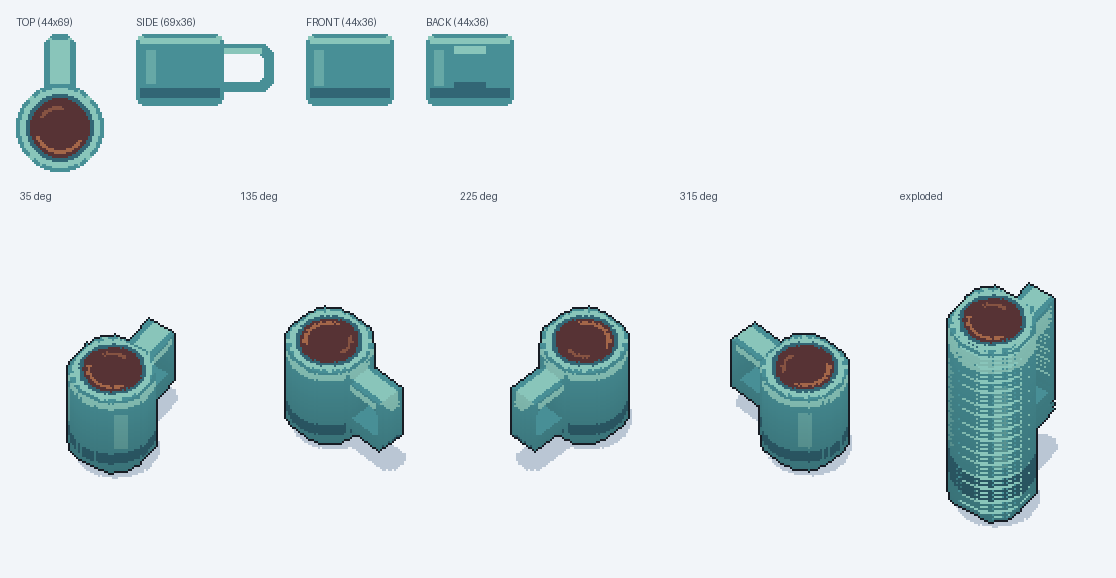
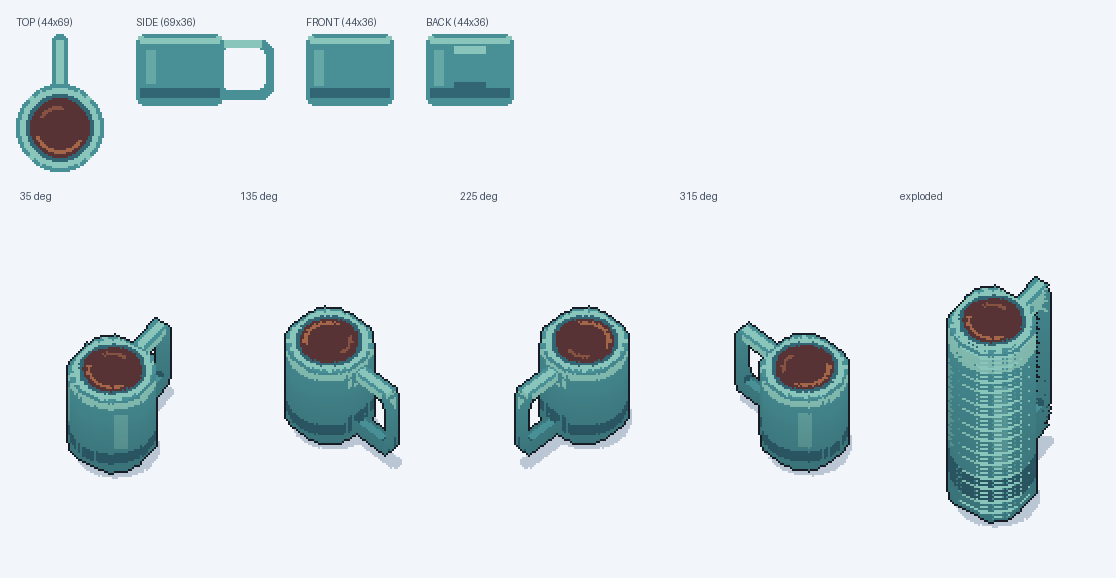
Verify race logic and refine the carved mug handle

diff --git a/src/game/collision.test.ts b/src/game/collision.test.ts
@@ -1,0 +1,62 @@
+import { describe, expect, it } from 'vitest'
+import { boxContact, circleContact, overlaps, resolveContact, tableContacts } from './collision'
+
+describe('arcade contacts', () => {
+  it('uses radial circle normals, including at coincident centres', () => {
+    const obstacle = { x: 0, y: 0, radius: 3 }
+    expect(circleContact({ x: 3, y: 4, radius: 3 }, obstacle)).toEqual({
+      depth: 1, normal: { x: 0.6, y: 0.8 },
+    })
+    expect(circleContact({ x: 10, y: 0, radius: 3 }, obstacle)).toBeUndefined()
+    expect(circleContact({ x: 0, y: 0, radius: 3 }, obstacle)).toEqual({
+      depth: 6, normal: { x: 1, y: 0 },
+    })
+  })
+
+  it('detects the thin face of a rotated box and pushes an interior circle out', () => {
+    const ruler = { x: 10, y: 20, halfWidth: 2, halfLength: 10, angle: Math.PI / 2 }
+    const edge = boxContact({ x: 14, y: 23, radius: 2 }, ruler)
+    expect(edge?.depth).toBeCloseTo(1)
+    expect(edge?.normal.x).toBeCloseTo(0)
+    expect(edge?.normal.y).toBeCloseTo(1)
+    const inside = boxContact({ x: 14, y: 21, radius: 2 }, ruler)
+    expect(inside?.depth).toBeCloseTo(3)
+    expect(boxContact({ x: 24, y: 21, radius: 2 }, ruler)).toBeUndefined()
+  })
+
+  it('uses the diagonal normal at a box corner', () => {
+    const contact = boxContact({ x: 3, y: 3, radius: 2 }, {
+      x: 0, y: 0, halfWidth: 2, halfLength: 2, angle: 0,
+    })
+    expect(contact?.depth).toBeCloseTo(2 - Math.SQRT2)
+    expect(contact?.normal.x).toBeCloseTo(Math.SQRT1_2)
+    expect(contact?.normal.y).toBeCloseTo(Math.SQRT1_2)
+  })
+
+  it('bounces normal velocity while preserving tangential motion and avoids a second impulse', () => {
+    const position = { x: 2, y: 0 }
+    const velocity = { x: -10, y: 6 }
+    const contact = { normal: { x: 1, y: 0 }, depth: 2 }
+    expect(resolveContact(position, velocity, contact, 0.7)).toBe(10)
+    expect(position.x).toBeCloseTo(4.03)
+    expect(velocity).toEqual({ x: 7, y: 6 })
+    expect(resolveContact(position, velocity, contact, 0.7)).toBe(0)
+    expect(velocity).toEqual({ x: 7, y: 6 })
+  })
+
+  it('keeps clearance between rotated track props', () => {
+    const horizontal = { x: 0, y: 0, halfWidth: 10, halfLength: 50, angle: Math.PI / 2 }
+    const vertical = { x: 63, y: 0, halfWidth: 10, halfLength: 50, angle: 0 }
+    expect(overlaps(horizontal, vertical, 0)).toBe(false)
+    expect(overlaps(horizontal, vertical, 4)).toBe(true)
+    expect(overlaps(horizontal, { x: -30, y: 30, radius: 11 }, 4)).toBe(false)
+    expect(overlaps(horizontal, { x: 30, y: 23, radius: 11 }, 4)).toBe(true)
+  })
+
+  it('produces separate wall contacts at a tabletop corner', () => {
+    expect(tableContacts({ x: 98, y: 1, radius: 5 }, 100, 60)).toEqual([
+      { normal: { x: -1, y: 0 }, depth: 3 },
+      { normal: { x: 0, y: 1 }, depth: 4 },
+    ])
+  })
+})

diff --git a/src/game/race.test.ts b/src/game/race.test.ts
@@ -1,0 +1,75 @@
+import { describe, expect, it } from 'vitest'
+import { BEST_LAP_KEY, Race, gateCrossing, readBestLap } from './race'
+import type { Gate } from './race'
+
+const line = (x: number): Gate => ({ x, y: 0, forward: { x: 1, y: 0 }, halfWidth: 15 })
+const gates = [line(0), line(100), line(200), line(300)]
+
+function cross(race: Race, x: number, reverse = false, y = 0) {
+  const direction = reverse ? -1 : 1
+  race.step({ x: x - direction, y }, { x: x + direction, y }, 500)
+}
+
+function completeLap(race: Race) {
+  for (const x of [100, 200, 300, 0]) cross(race, x)
+}
+
+describe('race checkpoints', () => {
+  it('requires every gate in order and rejects crossings outside the gate width', () => {
+    const race = new Race(gates, null)
+    cross(race, 200)
+    cross(race, 100, false, 19)
+    expect(race.checkpoint).toBe(0)
+    cross(race, 100)
+    cross(race, 300)
+    expect(race.checkpoint).toBe(1)
+    cross(race, 0)
+    expect(race.checkpoint).toBe(0)
+    expect(race.lap).toBe(1)
+    expect(race.lapTimesMs).toEqual([])
+  })
+
+  it('requires forward crossings and prevents counting laps by reversing over the line', () => {
+    const race = new Race(gates, null)
+    for (const x of [100, 200, 300]) cross(race, x)
+    cross(race, 300, true)
+    expect(race.checkpoint).toBe(2)
+    cross(race, 300)
+    cross(race, 0, true)
+    cross(race, 0)
+    expect(race.checkpoint).toBe(0)
+    expect(race.lapTimesMs).toEqual([])
+  })
+
+  it('uses the intersection point on an oblique movement segment', () => {
+    expect(gateCrossing({ x: -10, y: 30 }, { x: 10, y: -30 }, line(0))).toBe(1)
+    expect(gateCrossing({ x: 10, y: -30 }, { x: -10, y: 30 }, line(0))).toBe(-1)
+    expect(gateCrossing({ x: -10, y: 15 }, { x: -1, y: 0 }, line(0))).toBe(0)
+  })
+
+  it('finishes on lap three, retains the fastest lap and freezes the result', () => {
+    const race = new Race(gates, 2150)
+    race.step({ x: 20, y: 0 }, { x: 20, y: 0 }, 300)
+    completeLap(race)
+    expect(race.lap).toBe(2)
+    expect(race.lapElapsedMs).toBe(0)
+    expect(race.bestLapMs).toBe(2150)
+    completeLap(race)
+    expect(race.lap).toBe(3)
+    expect(race.finished).toBe(false)
+    completeLap(race)
+    completeLap(race)
+    expect(race.finished).toBe(true)
+    expect(race.lap).toBe(3)
+    expect(race.lapTimesMs).toEqual([2300, 2000, 2000])
+    expect(race.elapsedMs).toBe(6300)
+    expect(race.bestLapMs).toBe(2000)
+  })
+
+  it('reads the saved record and rejects junk', () => {
+    expect(readBestLap({ getItem: key => key === BEST_LAP_KEY ? '18213' : null })).toBe(18213)
+    for (const value of ['-1', 'NaN', '1.5', '', null]) {
+      expect(readBestLap({ getItem: () => value })).toBeNull()
+    }
+  })
+})

diff --git a/src/render/assets.test.ts b/src/render/assets.test.ts
@@ -1,0 +1,33 @@
+import { describe, expect, it } from 'vitest'
+import { validateEntry, validateStrip } from './assets'
+import { carTurn } from './stack'
+
+const entry = { slices: 16, sliceWidth: 20, sliceHeight: 36, source: 'art/placeholders/car.png' }
+
+describe('sprite strips', () => {
+  it('accepts a complete manifest entry and its exact strip dimensions', () => {
+    expect(validateEntry('car', entry)).toEqual(entry)
+    expect(() => validateStrip('car', entry, 320, 36)).not.toThrow()
+  })
+
+  it('rejects missing or malformed entries', () => {
+    for (const bad of [undefined, { ...entry, slices: 0 }, { ...entry, slices: '16' },
+      { ...entry, sliceWidth: 20.5 }, { ...entry, sliceHeight: Infinity }, { ...entry, source: '' }]) {
+      expect(() => validateEntry('car', bad)).toThrow(/manifest entry/)
+    }
+  })
+
+  it('rejects non-divisible widths, mismatched slice widths and mismatched heights', () => {
+    for (const [w, h] of [[319, 36], [336, 36], [320, 35]]) {
+      expect(() => validateStrip('car', entry, w, h)).toThrow(/expected 320×36/)
+    }
+  })
+
+  it('rotates the native down-facing nose into each forward heading', () => {
+    for (const heading of [0, Math.PI / 2, Math.PI, -Math.PI / 2, 0.63]) {
+      const turn = carTurn(heading)
+      expect(-Math.sin(turn)).toBeCloseTo(Math.cos(heading))
+      expect(Math.cos(turn)).toBeCloseTo(Math.sin(heading))
+    }
+  })
+})

diff --git a/src/game/track.ts b/src/game/track.ts
@@ -77,7 +77,7 @@ function boundaryProps(side: number, footprints: Record<PropId, Footprint>): Pro
   return props
 }
 
-const mug = { x: 1155, y: 348, angle: 0.7 }
+const mug = { x: 1145, y: 348, angle: 3.93 }
 const box = { x: 728, y: 280, angle: -0.33 }
 function mugCircle(offset: number, radius: number): Solid {
   return {
@@ -98,8 +98,12 @@ export function buildTrack(footprints: Record<PropId, Footprint>) {
   ]
   const solids = props.map(prop => prop.solid)
   if (handleLength > 0) {
-    const handleRadius = Math.min(bowlWidth * 0.18, handleLength / 2)
-    solids.push(mugCircle(handleRadius - footprints.mug.sliceHeight / 2, handleRadius))
+    const handleRadius = Math.min(bowlWidth * 0.1, handleLength / 2)
+    const circles = Math.ceil(handleLength / (2 * handleRadius))
+    for (let i = 0; i < circles; i++) {
+      const offset = (i + 0.5) * handleLength / circles - footprints.mug.sliceHeight / 2
+      solids.push(mugCircle(offset, handleRadius))
+    }
   }
   for (const prop of [...boundaryProps(1, footprints), ...boundaryProps(-1, footprints)]) {
     if (solids.some(solid => overlaps(prop.solid, solid, 4))) continue

diff --git a/tools/generate_placeholders.py b/tools/generate_placeholders.py
@@ -150,8 +150,8 @@ def ruler():
 def mug():
     blue, light, dark = "#488f96", "#89c5ba", "#326675"
     top, d = view(44, 69)
-    d.rounded_rectangle((14, 0, 29, 29), 6, fill=blue)
-    d.rectangle((17, 3, 26, 27), fill=light)
+    d.rounded_rectangle((18, 0, 25, 29), 3, fill=blue)
+    d.rectangle((20, 3, 23, 27), fill=light)
     d.ellipse((0, 25, 43, 68), fill=blue)
     d.ellipse((2, 27, 41, 66), fill=light)
     d.ellipse((5, 30, 38, 63), fill=dark)
@@ -159,9 +159,9 @@ def mug():
     d.arc((9, 34, 34, 59), 30, 160, fill="#a36649", width=2)
     d.arc((11, 36, 29, 54), 205, 290, fill="#865342", width=2)
     side, d = view(69, 36)
-    d.rounded_rectangle((38, 5, 68, 28), 6, fill=blue)
-    d.rounded_rectangle((42, 10, 63, 23), 3, fill=(0, 0, 0, 0))
-    d.rectangle((44, 7, 62, 8), fill=light)
+    d.rounded_rectangle((37, 3, 68, 32), 6, fill=blue)
+    d.rounded_rectangle((42, 7, 64, 27), 4, fill=(0, 0, 0, 0))
+    d.rectangle((44, 4, 62, 5), fill=light)
     d.rounded_rectangle((0, 0, 43, 35), 4, fill=blue)
     d.rectangle((2, 2, 41, 4), fill=light)
     d.rectangle((2, 27, 41, 31), fill=dark)

diff --git a/tools/import_sheet.py b/tools/import_sheet.py
@@ -25,6 +25,8 @@ def import_sheet(sheet, asset_id, overrides):
     if asset_id not in PRESETS and "slices" not in overrides:
         raise ValueError("New asset IDs require an explicit --slices count.")
     settings = {**PRESETS.get(asset_id, {}), **overrides}
+    if not sheet.is_file():
+        raise ValueError(f"Sheet not found: {sheet}")
     count = settings["slices"]
     if count < 1:
         raise ValueError("--slices must be a positive integer.")
@@ -38,7 +40,8 @@ def import_sheet(sheet, asset_id, overrides):
         key_background = settings.pop("key_background", False)
         if sheet.resolve().parent == OUTPUT or key_background:
             # The exact reserved background also shows through enclosed holes, e.g. the mug handle.
-            rgba = np.array(Image.open(sheet).convert("RGBA"))
+            with Image.open(sheet) as image:
+                rgba = np.array(image.convert("RGBA"))
             rgba[np.all(rgba[:, :, :3] == BG, axis=2), 3] = 0
             carve_input = folder / "keyed.png"
             Image.fromarray(rgba).save(carve_input)

diff --git a/CHANGELOG.md b/CHANGELOG.md
@@ -8,3 +8,6 @@
 - Added keyboard driving, arcade drift, tire effects, and collision bounce.
 - Added a three-lap race with directional checkpoints, lap splits, a live circuit map, saved best lap, and a finish screen.
 - Matched prop and car collision dimensions to the loaded sprite strips for artist swaps.
+- Widened the carved mug handle opening and matched its collision footprint.
+- Added Vitest coverage for checkpoint order, lap records, collision math, and sprite strip validation.
+- Verified placeholder regeneration, artist swaps, and a full race in Chromium against the production build.
